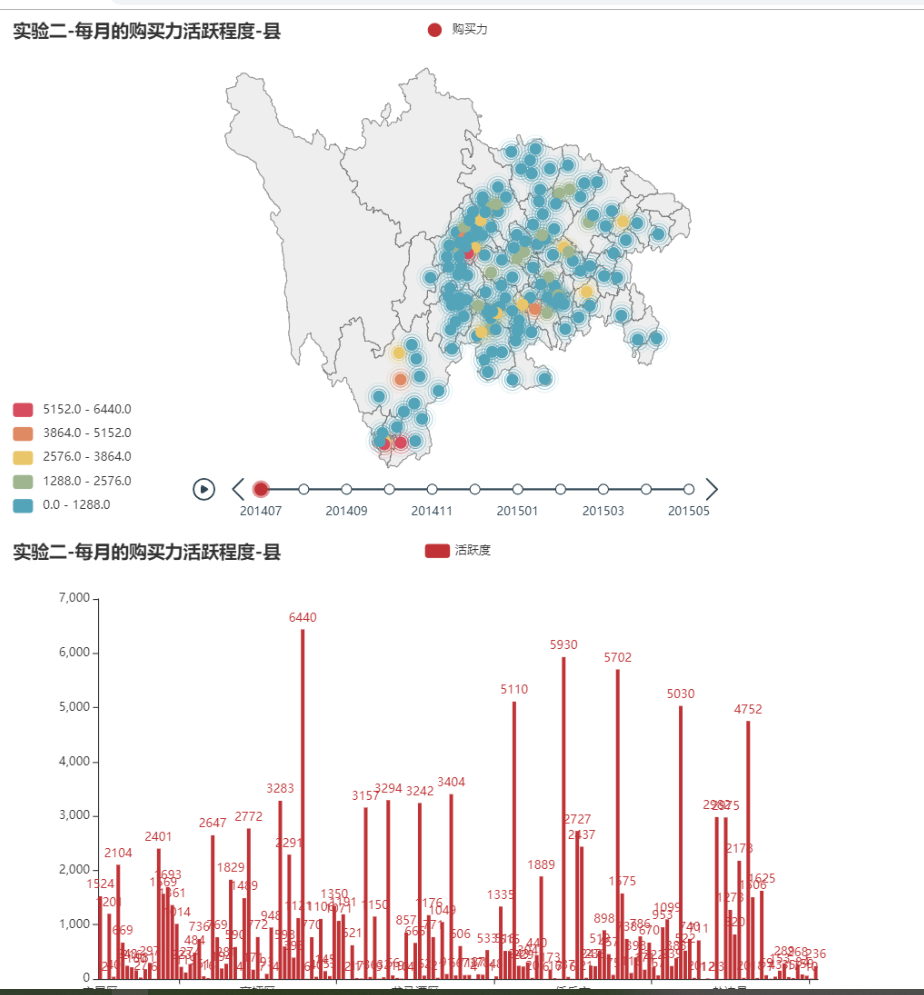
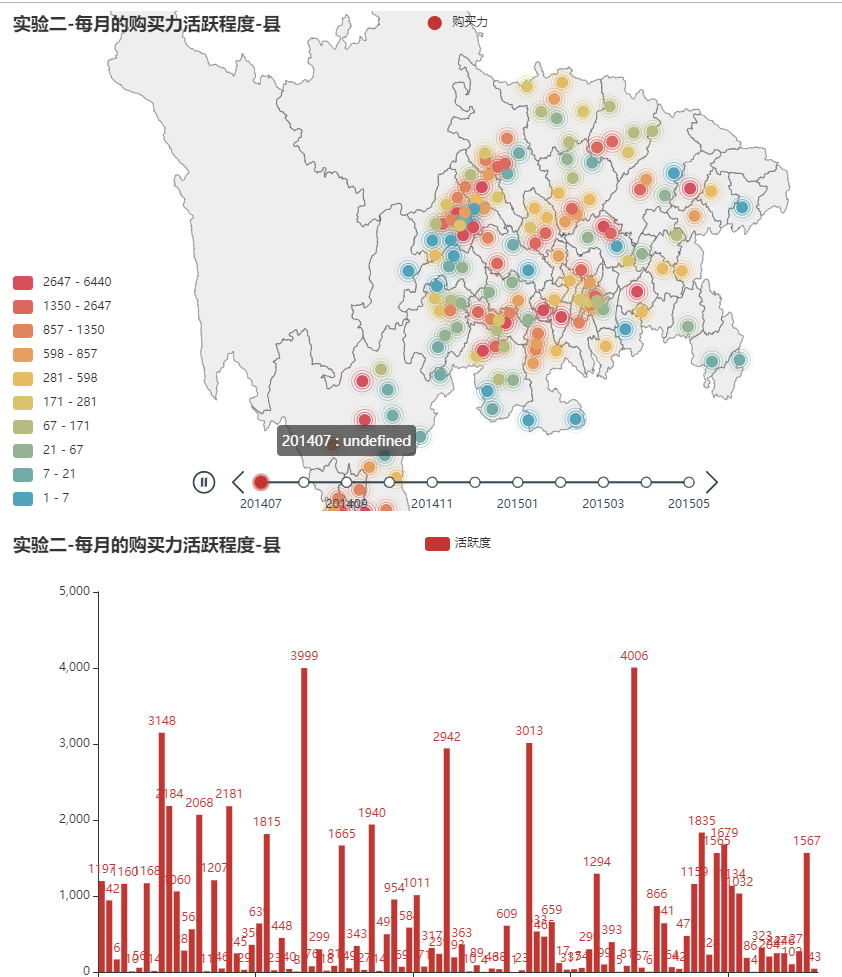
update img

diff --git a/Coding4.city.py b/Coding4.city.py
@@ -97,7 +97,7 @@ def timeline_map() -> Timeline:
     # 共有 12 个地图
     for (months, index) in zip(yearMonth, range(0, 12)):
 
-        # 计算得出当前颜色域的范围, 根据个数平均分成10个组。
+        # 计算得出当前颜色域的范围, 根据个数平均分成组。
         sliptNum = int(len(list(np.array(rowData)[:,index+1])) / 10)
         splitBoundaryIndex = [i for i in range(0, len(list(np.array(rowData)[:,index+1])), sliptNum)]
         splitBoundaryIndex.append(len(list(np.array(rowData)[:,index+1])) - 1)   # 以防万一，将最后一个也加进去。
